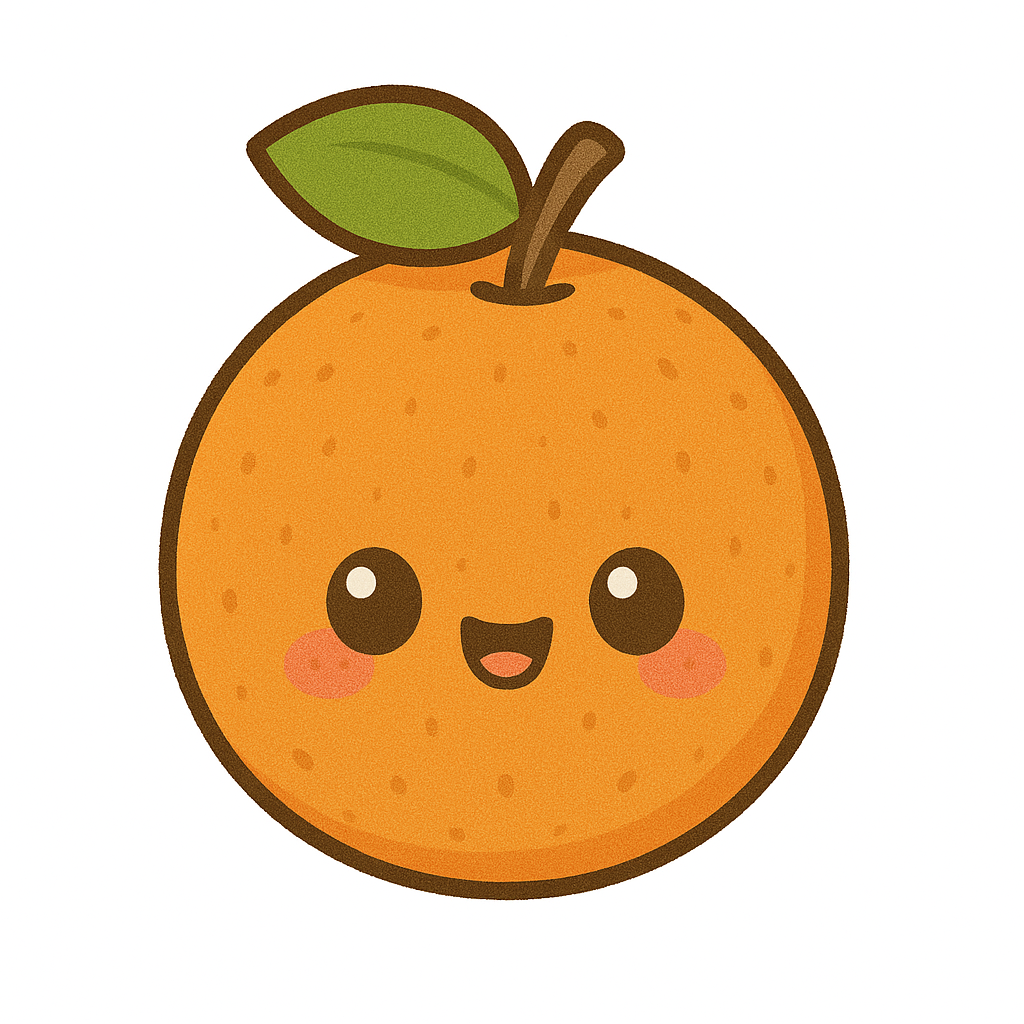
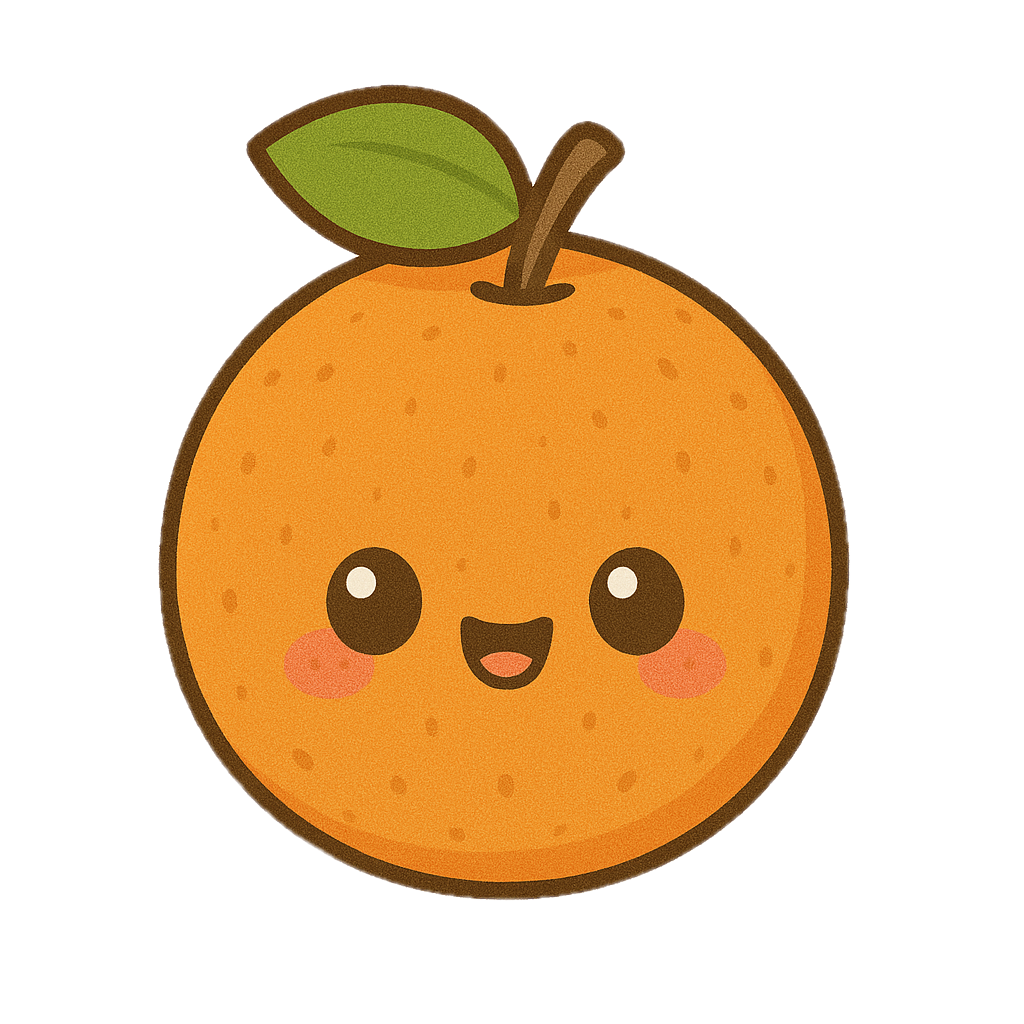
Remove unused image files and update fruit background opacity and cart card background for improved aesthetics

diff --git a/index.html b/index.html
@@ -196,7 +196,7 @@
     }
     .bg-fruit {
         position: absolute;
-        opacity: 0.13;
+    opacity: 0.28;
         filter: blur(0.5px) saturate(1.2);
         pointer-events: none;
         animation: float-fruit 8s ease-in-out infinite;
@@ -283,7 +283,7 @@
         align-items: center;
     }
     .cart-fruit-card {
-        background: #fff;
+    background: transparent;
         border-radius: 18px;
         box-shadow: 0 2px 12px rgba(88,204,2,0.10);
         padding: 16px 0 16px 16px;
